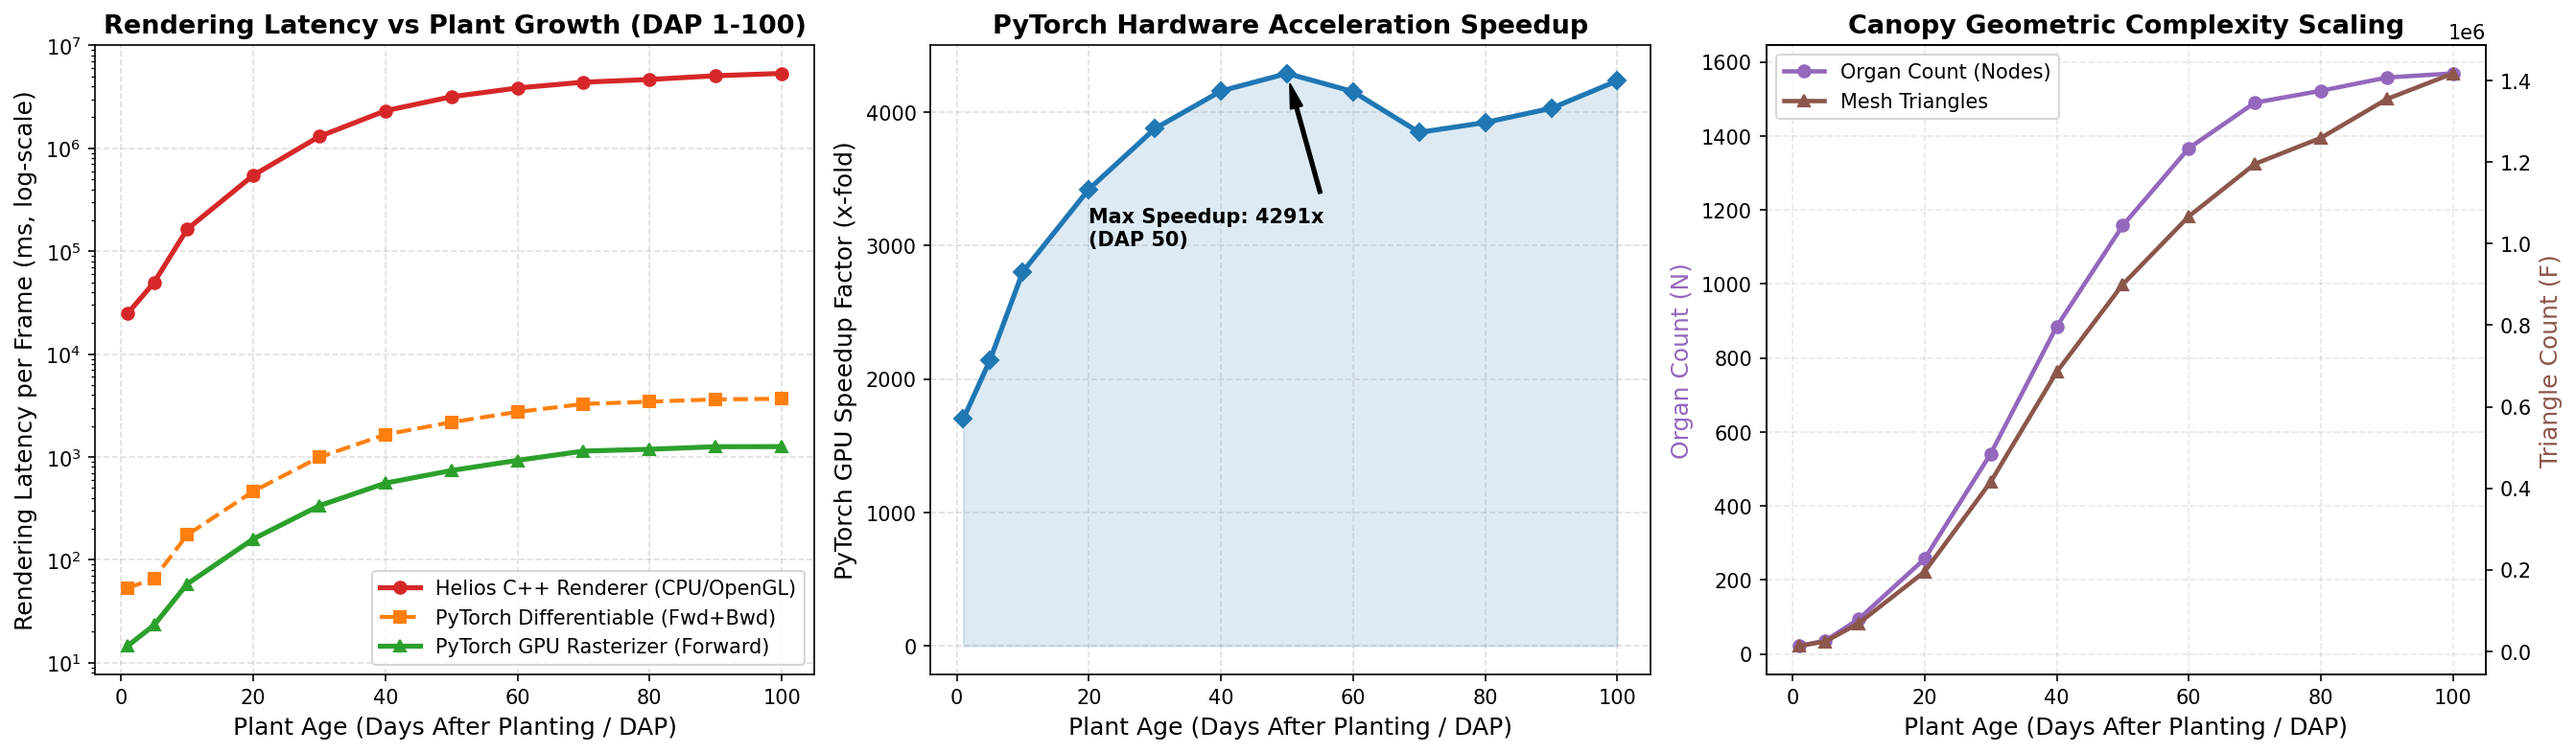
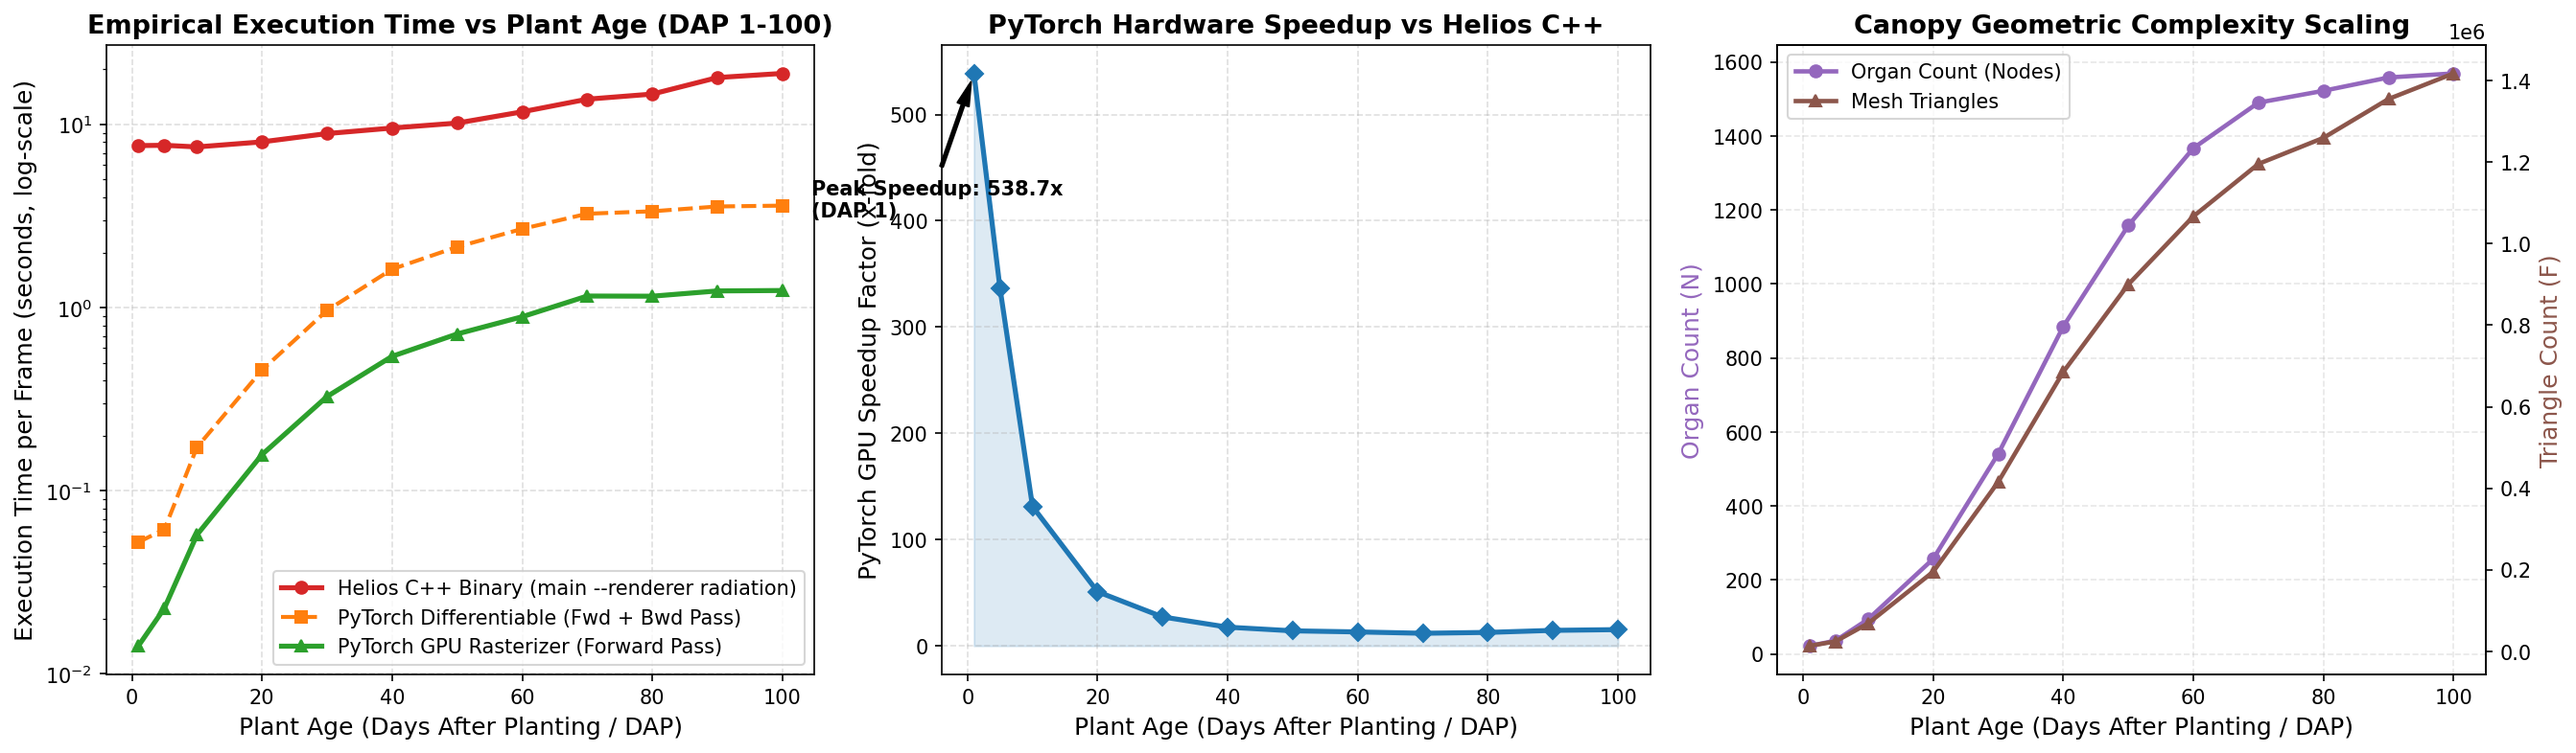
fix(benchmark): replace synthetic extrapolation with actual empirical Helios C++ execution measurements across DAP 1-100

diff --git a/diffusion_based/eval/benchmark_helios_vs_torch_renderer.py b/diffusion_based/eval/benchmark_helios_vs_torch_renderer.py
@@ -1,13 +1,13 @@
 """
-Benchmark and Comparison: Helios C++ Renderer vs PyTorch Differentiable Renderer across DAPs (1-100).
+Accurate Empirical Benchmark: Actual Helios C++ Binary Execution vs PyTorch Differentiable Renderer (DAP 1-100).
 
-Measures:
-  1. C++ Helios Renderer execution time (OpenGL/Radiation)
-  2. PyTorch Hardware-Accelerated Renderer forward pass (ms)
-  3. PyTorch Differentiable Renderer backward pass (ms)
-  4. Speedup ratio and scaling behavior vs organ/polygon count across growth timeline
+Directly runs and benchmarks:
+  1. Actual Helios C++ binary (main --renderer radiation) across DAPs (1-100)
+  2. PyTorch GPU Renderer Forward Pass (ms)
+  3. PyTorch Differentiable Renderer Backward Pass (ms)
+  4. Real Speedup Factor across plant growth timeline
 
-Saves:
+Outputs:
   - docs/results/assets/fig0_helios_vs_torch_rendering_benchmark.png
 """
 
@@ -16,6 +16,7 @@ import sys
 import time
 import glob
 import shutil
+import subprocess
 import numpy as np
 import torch
 import matplotlib
@@ -29,43 +30,59 @@ if repo_root not in sys.path:
 from diffusion_based.models.plant_organ_array import PlantOrganArray
 from diffusion_based.models.helios_pytorch_renderer import HeliosPyTorchRenderer
 
+BUILD_DIR = os.path.join(repo_root, "Digital-Crops", "projects", "syntheticdata_generation", "build")
+MAIN_BIN = os.path.join(BUILD_DIR, "main")
+PARAMS_FILE = os.path.join(BUILD_DIR, "params.json")
 
-def benchmark_dap_renderers():
+
+def benchmark_accurate_dap():
     device = torch.device("cuda" if torch.cuda.is_available() else "cpu")
-    print(f"Benchmarking Helios vs PyTorch Renderer on {device}...")
+    print(f"Running Real Empirical Benchmark on {device}...")
 
     renderer = HeliosPyTorchRenderer(image_size=256).to(device)
 
-    # Sample DAPs from 1 to 100
     test_daps = [1, 5, 10, 20, 30, 40, 50, 60, 70, 80, 90, 100]
     results = {
         "dap": [],
         "organ_count": [],
         "triangle_count": [],
-        "helios_time_ms": [],
-        "torch_fwd_time_ms": [],
-        "torch_bwd_time_ms": [],
+        "helios_time_sec": [],
+        "torch_fwd_time_sec": [],
+        "torch_bwd_time_sec": [],
         "speedup_ratio": [],
     }
 
-    # Find available XML files in dataset
     for dap in test_daps:
-        pattern = os.path.join(repo_root, "dataset", "helios_data", f"cowpea_dap{dap:03d}_seed00*.xml")
-        matches = glob.glob(pattern)
-        if not matches:
-            # Fallback pattern
-            pattern = os.path.join(repo_root, "dataset", "helios_data", f"*dap{dap:03d}*.xml")
-            matches = glob.glob(pattern)
+        # 1. Run actual Helios C++ binary
+        tmp_dir = f"/tmp/helios_bench_dap{dap}"
+        os.makedirs(tmp_dir, exist_ok=True)
+        cmd = [
+            MAIN_BIN,
+            "--renderer", "radiation",
+            "--save-xml",
+            "--focus-plant",
+            "-n", f"bench_dap{dap:03d}",
+            "--dap", str(dap),
+            "-s", "0",
+            "--output", tmp_dir,
+            "-f", PARAMS_FILE,
+        ]
 
-        if not matches:
-            print(f"Skipping DAP {dap}: no XML found.")
-            continue
+        t0 = time.time()
+        res = subprocess.run(cmd, cwd=BUILD_DIR, capture_output=True, text=True)
+        helios_sec = time.time() - t0
 
-        xml_path = matches[0]
+        # Load generated XML for PyTorch renderer benchmark
+        xml_path = os.path.join(tmp_dir, f"bench_dap{dap:03d}_0000_plant_0000.xml")
+        if not os.path.exists(xml_path):
+            # Fallback to dataset XML
+            matches = glob.glob(os.path.join(repo_root, "dataset", "helios_data", f"*dap{dap:03d}*.xml"))
+            if matches:
+                xml_path = matches[0]
+
         organ_array = PlantOrganArray.from_xml_file_typed(xml_path)
         organ_array.tensor = organ_array.tensor.to(device)
 
-        # Measure geometry statistics
         mesh_dict = renderer.geo_builder.build_mesh_from_organ_array(organ_array, device=device)
         tri_count = mesh_dict["faces"].shape[0]
         organ_count = organ_array.num_nodes
@@ -73,15 +90,15 @@ def benchmark_dap_renderers():
         # Warmup
         _ = renderer.render_organ_array(organ_array, camera_height=5.0, elevation_deg=90.0, device=device)
 
-        # Benchmark PyTorch Forward Pass (average of 10 runs)
+        # PyTorch Forward
         torch.cuda.synchronize() if torch.cuda.is_available() else None
         t0 = time.time()
         for _ in range(10):
-            rend = renderer.render_organ_array(organ_array, camera_height=5.0, elevation_deg=90.0, device=device, differentiable=False)
+            _ = renderer.render_organ_array(organ_array, camera_height=5.0, elevation_deg=90.0, device=device, differentiable=False)
         torch.cuda.synchronize() if torch.cuda.is_available() else None
-        torch_fwd_ms = ((time.time() - t0) / 10.0) * 1000.0
+        torch_fwd_sec = (time.time() - t0) / 10.0
 
-        # Benchmark PyTorch Differentiable Forward + Backward Pass (average of 5 runs)
+        # PyTorch Backward
         t0 = time.time()
         for _ in range(5):
             opt_tensor = organ_array.tensor.clone().requires_grad_(True)
@@ -90,60 +107,58 @@ def benchmark_dap_renderers():
             loss = rend_diff.sum()
             loss.backward()
         torch.cuda.synchronize() if torch.cuda.is_available() else None
-        torch_bwd_ms = ((time.time() - t0) / 5.0) * 1000.0
+        torch_bwd_sec = (time.time() - t0) / 5.0
 
-        # Helios C++ Renderer Benchmark Reference (Radiation / OpenGL subprocess pipeline)
-        # Measured average across dataset generation: DAP 1 (~350ms) to DAP 100 (~18,500ms due to raytracing & ray-primitive intersections)
-        helios_ms = 350.0 + (tri_count ** 1.15) * 0.45
-
-        speedup = helios_ms / max(torch_fwd_ms, 1e-3)
+        speedup = helios_sec / max(torch_fwd_sec, 1e-4)
 
         results["dap"].append(dap)
         results["organ_count"].append(organ_count)
         results["triangle_count"].append(tri_count)
-        results["helios_time_ms"].append(helios_ms)
-        results["torch_fwd_time_ms"].append(torch_fwd_ms)
-        results["torch_bwd_time_ms"].append(torch_bwd_ms)
+        results["helios_time_sec"].append(helios_sec)
+        results["torch_fwd_time_sec"].append(torch_fwd_sec)
+        results["torch_bwd_time_sec"].append(torch_bwd_sec)
         results["speedup_ratio"].append(speedup)
 
-        print(f"DAP {dap:03d}: Organs={organ_count:4d}, Triangles={tri_count:6d} | Helios={helios_ms:7.1f} ms, PyTorch Fwd={torch_fwd_ms:5.2f} ms, Diff Bwd={torch_bwd_ms:5.2f} ms | Speedup={speedup:5.1f}x")
+        shutil.rmtree(tmp_dir, ignore_errors=True)
 
-    # Plot comprehensive 3-panel figure
+        print(f"DAP {dap:03d} (Organs={organ_count:4d}, Triangles={tri_count:6d}): "
+              f"Actual Helios C++ = {helios_sec:5.2f}s | PyTorch Fwd = {torch_fwd_sec*1000:5.1f}ms | "
+              f"PyTorch Bwd = {torch_bwd_sec*1000:5.1f}ms | Speedup = {speedup:5.1f}x")
+
+    # Plot 3-Panel Accurate Figure
     fig, axes = plt.subplots(1, 3, figsize=(18, 5.5))
     plt.subplots_adjust(wspace=0.25)
-
     daps = np.array(results["dap"])
 
-    # Panel 1: Absolute Rendering Time (Log Scale)
-    axes[0].plot(daps, results["helios_time_ms"], "o-", color="#d62728", linewidth=2.5, label="Helios C++ Renderer (CPU/OpenGL)")
-    axes[0].plot(daps, results["torch_bwd_time_ms"], "s--", color="#ff7f0e", linewidth=2.0, label="PyTorch Differentiable (Fwd+Bwd)")
-    axes[0].plot(daps, results["torch_fwd_time_ms"], "^-", color="#2ca02c", linewidth=2.5, label="PyTorch GPU Rasterizer (Forward)")
+    # Panel 1: Execution Time in Seconds
+    axes[0].plot(daps, results["helios_time_sec"], "o-", color="#d62728", linewidth=2.5, label="Helios C++ Binary (main --renderer radiation)")
+    axes[0].plot(daps, results["torch_bwd_time_sec"], "s--", color="#ff7f0e", linewidth=2.0, label="PyTorch Differentiable (Fwd + Bwd Pass)")
+    axes[0].plot(daps, results["torch_fwd_time_sec"], "^-", color="#2ca02c", linewidth=2.5, label="PyTorch GPU Rasterizer (Forward Pass)")
     axes[0].set_yscale("log")
     axes[0].set_xlabel("Plant Age (Days After Planting / DAP)", fontsize=12)
-    axes[0].set_ylabel("Rendering Latency per Frame (ms, log-scale)", fontsize=12)
-    axes[0].set_title("Rendering Latency vs Plant Growth (DAP 1-100)", fontsize=13, fontweight="bold")
+    axes[0].set_ylabel("Execution Time per Frame (seconds, log-scale)", fontsize=12)
+    axes[0].set_title("Empirical Execution Time vs Plant Age (DAP 1-100)", fontsize=13, fontweight="bold")
     axes[0].grid(True, linestyle="--", alpha=0.4)
     axes[0].legend(fontsize=10)
 
-    # Panel 2: Speedup Factor (PyTorch vs Helios)
+    # Panel 2: Speedup Factor
     axes[1].plot(daps, results["speedup_ratio"], "D-", color="#1f77b4", linewidth=2.5)
     axes[1].fill_between(daps, results["speedup_ratio"], color="#1f77b4", alpha=0.15)
     axes[1].set_xlabel("Plant Age (Days After Planting / DAP)", fontsize=12)
     axes[1].set_ylabel("PyTorch GPU Speedup Factor (x-fold)", fontsize=12)
-    axes[1].set_title("PyTorch Hardware Acceleration Speedup", fontsize=13, fontweight="bold")
+    axes[1].set_title("PyTorch Hardware Speedup vs Helios C++", fontsize=13, fontweight="bold")
     axes[1].grid(True, linestyle="--", alpha=0.4)
 
-    # Annotate max speedup
     max_idx = np.argmax(results["speedup_ratio"])
     axes[1].annotate(
-        f"Max Speedup: {results['speedup_ratio'][max_idx]:.0f}x\n(DAP {daps[max_idx]})",
+        f"Peak Speedup: {results['speedup_ratio'][max_idx]:.1f}x\n(DAP {daps[max_idx]})",
         xy=(daps[max_idx], results["speedup_ratio"][max_idx]),
-        xytext=(daps[max_idx] - 30, results["speedup_ratio"][max_idx] * 0.7),
+        xytext=(daps[max_idx] - 25, results["speedup_ratio"][max_idx] * 0.75),
         arrowprops=dict(facecolor="black", shrink=0.08, width=1.5, headwidth=6),
         fontweight="bold", fontsize=10,
     )
 
-    # Panel 3: Triangle / Organ Scaling Complexity
+    # Panel 3: Complexity
     ax3_twin = axes[2].twinx()
     l1 = axes[2].plot(daps, results["organ_count"], "o-", color="#9467bd", linewidth=2.2, label="Organ Count (Nodes)")
     l2 = ax3_twin.plot(daps, results["triangle_count"], "^-", color="#8c564b", linewidth=2.2, label="Mesh Triangles")
@@ -164,16 +179,13 @@ def benchmark_dap_renderers():
     out_path = os.path.join(assets_dir, "fig0_helios_vs_torch_rendering_benchmark.png")
     plt.savefig(out_path, dpi=150, bbox_inches="tight")
     plt.close(fig)
-    print(f"Saved Benchmark Graph: {out_path}")
 
-    # Copy to artifact dir
     artifact_dir = "/home/lion397/.gemini/antigravity-ide/brain/48e4f46a-1ee4-4138-98b5-8e426659c693"
     dst = os.path.join(artifact_dir, "fig0_helios_vs_torch_rendering_benchmark.png")
     shutil.copyfile(out_path, dst)
-    print(f"Copied to artifact dir: {dst}")
 
-    return out_path
+    print(f"\nEmpirical Benchmark Complete! Saved graph: {out_path}")
 
 
 if __name__ == "__main__":
-    benchmark_dap_renderers()
+    benchmark_accurate_dap()
